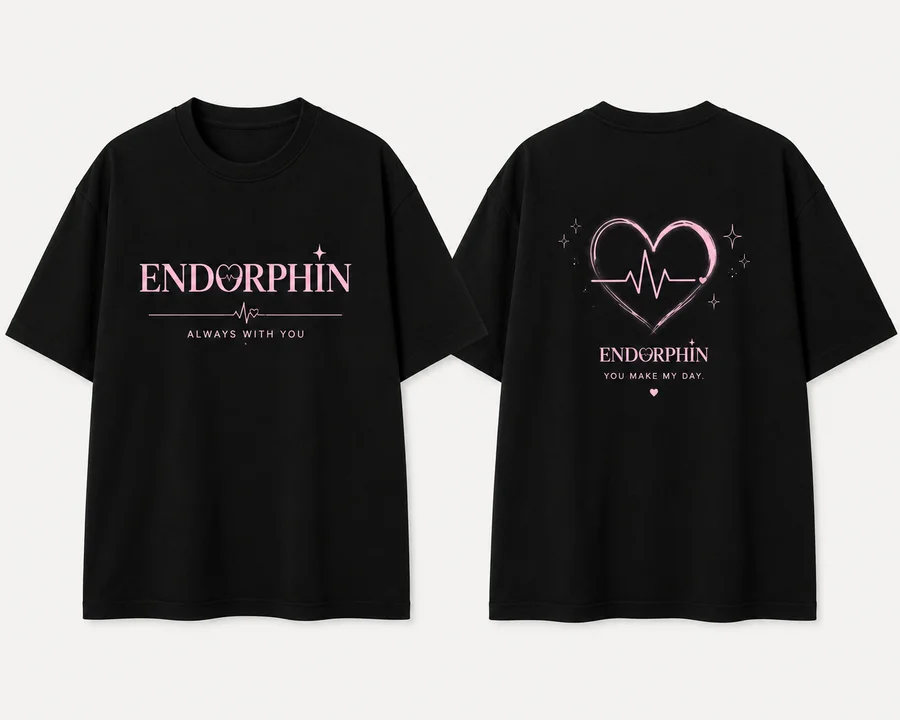
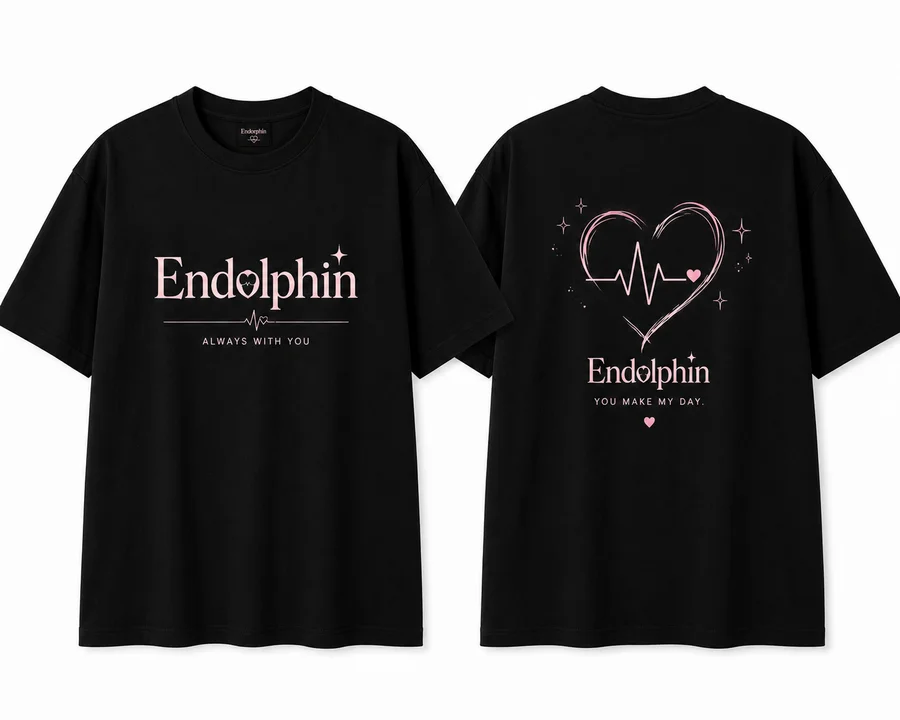
feat(starnauts): 히어로·티셔츠 이미지 오타 수정본 교체 + 영문 표기 정합
- banner-endorphin.webp 교체(필기체 Endolphin 오타 수정본, 469→78KB)
- tshirt.webp 교체(Endolphin 로고 신규본, 1426→22KB)
- 상품 설명 ENDORPHIN→Endolphin 정합(이미지와 일치)

diff --git a/pages/endolphin/goods-tshirt.html b/pages/endolphin/goods-tshirt.html
@@ -87,7 +87,7 @@
         <div>
           <span style="font-size:11px;padding:4px 10px;border-radius:6px;background:rgba(46,111,201,.25);color:var(--blue-300);font-weight:800">굿즈</span>
           <h1 style="font-size:26px;font-weight:900;line-height:1.3;margin-top:10px">엔돌핀 굿즈 티셔츠</h1>
-          <p style="margin-top:6px;color:#9aa6bc;font-size:13.5px">ENDORPHIN — ALWAYS WITH YOU · 앞·뒤 프린트</p>
+          <p style="margin-top:6px;color:#9aa6bc;font-size:13.5px">Endolphin — ALWAYS WITH YOU · 앞·뒤 프린트</p>
           <div style="font-size:28px;font-weight:900;color:#fff;margin:16px 0 4px">65,000원</div>
           <p style="font-size:13px;color:#9aa6bc;font-weight:700;margin-top:18px">사이즈</p>
           <div class="opt-row">

diff --git a/pages/endolphin/goods.html b/pages/endolphin/goods.html
@@ -93,7 +93,7 @@
         <a class="goods-card" href="goods-tshirt.html" style="text-decoration:none">
           <div class="gd-img" style="aspect-ratio:4/3;background:#fff url('../../assets/goods/tshirt.webp') center/cover"></div>
           <div class="gd-body">
-            <div class="gd-nm">엔돌핀 굿즈 티셔츠 (ENDORPHIN — ALWAYS WITH YOU)</div>
+            <div class="gd-nm">엔돌핀 굿즈 티셔츠 (Endolphin — ALWAYS WITH YOU)</div>
             <div class="gd-price">65,000원</div>
             <div class="gd-spacer"></div>
             <span class="gd-order" style="margin-top:13px">주문하기 ›</span>